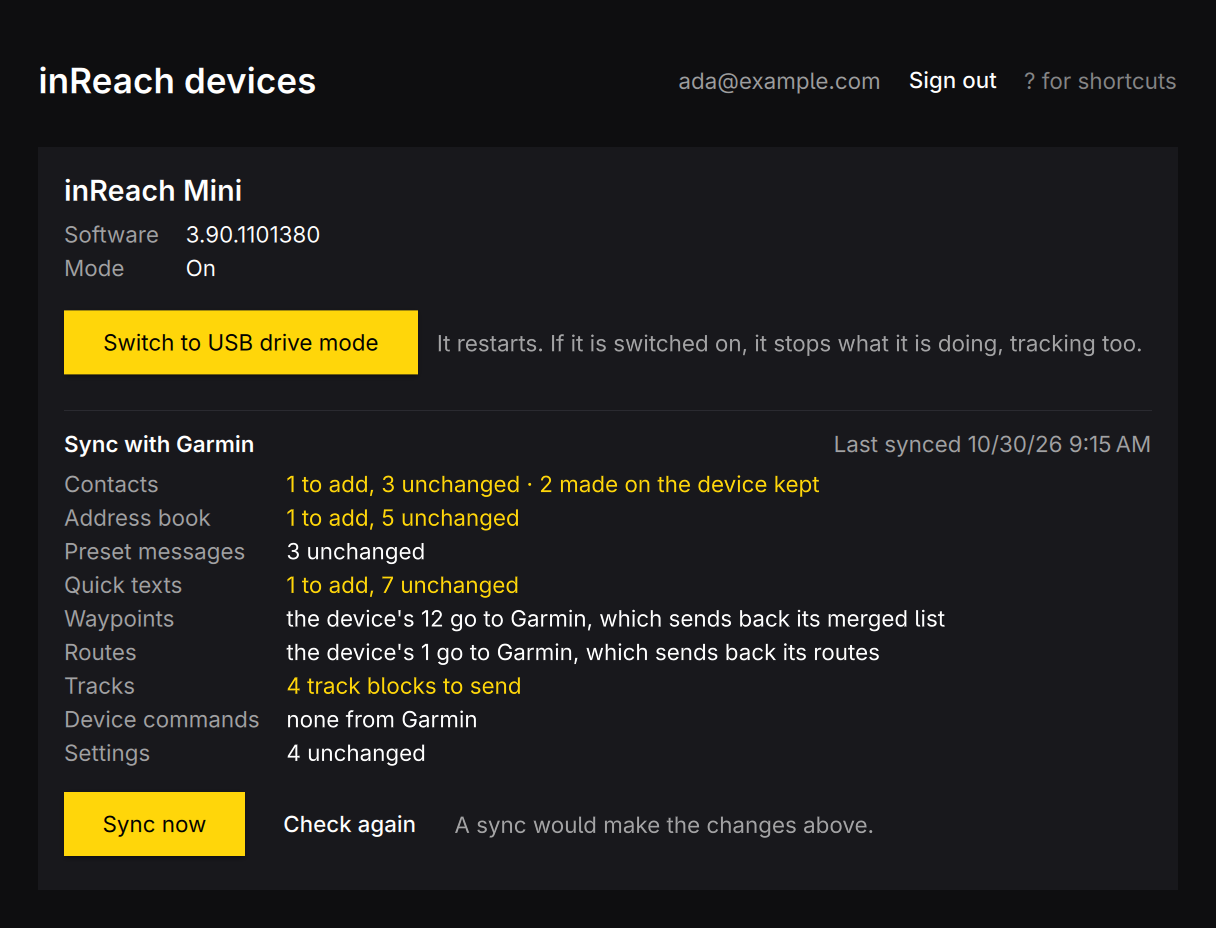
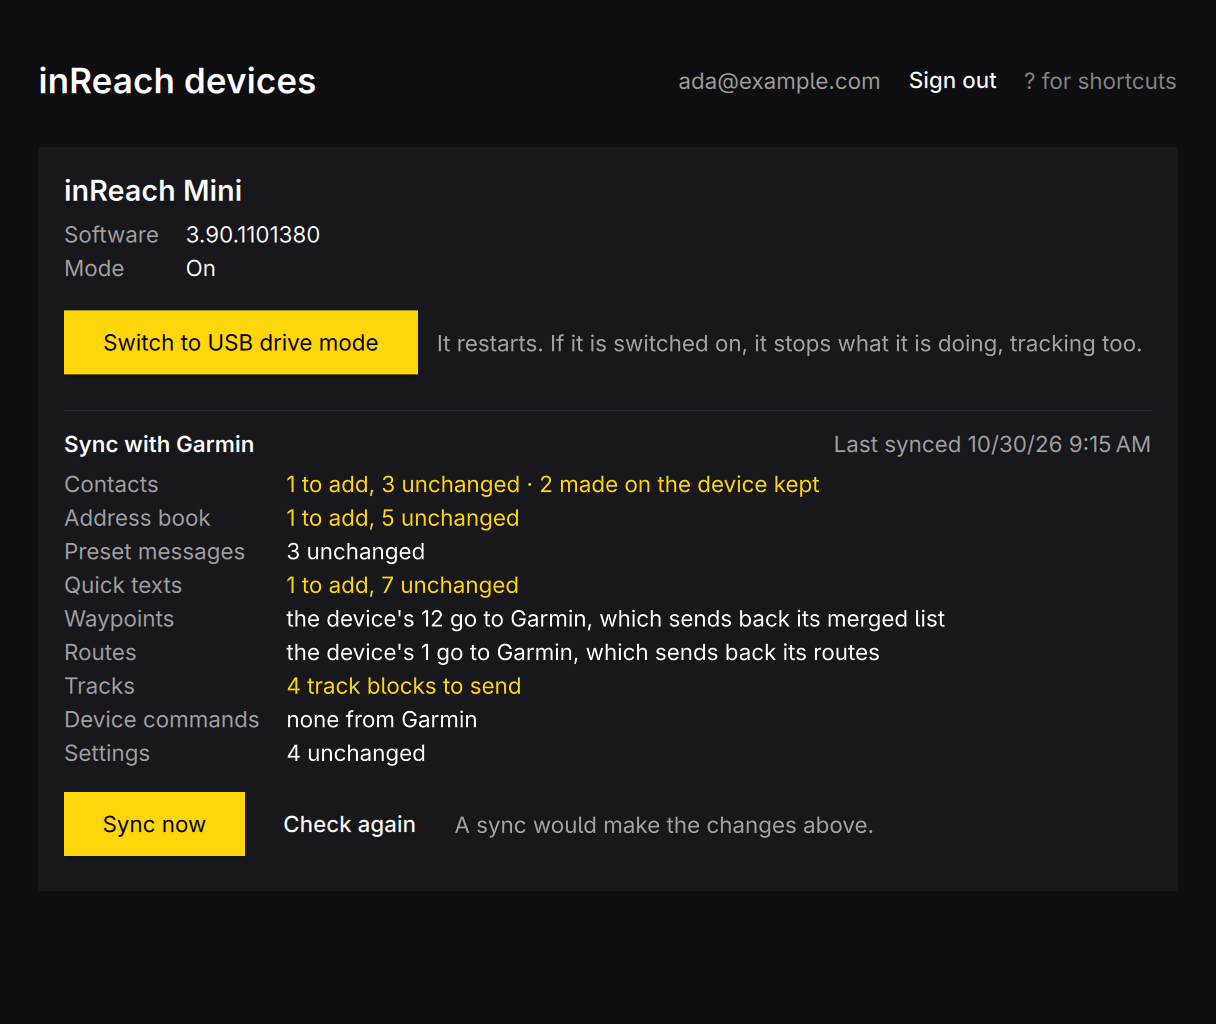
Add the screenshot demo: tools/demo and bin/screenshot
The real window with made-up state from a FakeBackend, the default accent and a language
of choice, captured on screen with grim (Qt's offscreen platform does not draw Material's
button backgrounds). A test keeps FakeBackend's properties and actions in step with
Backend's. The README screenshot is taken with it.

diff --git a/tools/demo/fakebackend.h b/tools/demo/fakebackend.h
@@ -1,0 +1,47 @@
+// The window's Backend with made-up state, for screenshots: the same
+// properties, signals and actions, no device and no network. Keep it in step
+// with src/backend.h; tests/ checks that the properties match.
+#pragma once
+#include <QJsonDocument>
+#include <QJsonObject>
+#include <QObject>
+#include <QVariantMap>
+class FakeBackend : public QObject {
+    Q_OBJECT
+    Q_PROPERTY(QVariantList devices MEMBER m_devices NOTIFY changed)
+    Q_PROPERTY(bool busy READ busy NOTIFY changed)
+    Q_PROPERTY(QString task MEMBER m_task NOTIFY changed)
+    Q_PROPERTY(QString error MEMBER m_error NOTIFY changed)
+    Q_PROPERTY(QString account MEMBER m_account NOTIFY changed)
+    Q_PROPERTY(QVariantMap preview MEMBER m_preview NOTIFY changed)
+    Q_PROPERTY(QString previewError MEMBER m_previewError NOTIFY changed)
+    Q_PROPERTY(QString syncStep MEMBER m_syncStep NOTIFY changed)
+    Q_PROPERTY(QVariantMap syncResult MEMBER m_syncResult NOTIFY changed)
+    Q_PROPERTY(QString syncError MEMBER m_syncError NOTIFY changed)
+public:
+    explicit FakeBackend(const QByteArray &json) {
+        const QVariantMap m = QJsonDocument::fromJson(json).object().toVariantMap();
+        m_devices = m.value("devices").toList();
+        m_task = m.value("task").toString();
+        m_account = m.value("account").toString();
+        m_preview = m.value("preview").toMap();
+        m_syncStep = m.value("syncStep").toString();
+        m_syncResult = m.value("syncResult").toMap();
+    }
+    bool busy() const { return !m_task.isEmpty(); }
+    Q_INVOKABLE void refresh() {}
+    Q_INVOKABLE void switchToDrive(const QString &) {}
+    Q_INVOKABLE void switchOn(const QString &) {}
+    Q_INVOKABLE void signIn(const QString &, const QString &) {}
+    Q_INVOKABLE void signOut() {}
+    Q_INVOKABLE void checkSync() {}
+    Q_INVOKABLE void sync() {}
+signals:
+    void changed();
+    void notice(const QString &text);
+    void signInFinished(bool ok, const QString &error);
+private:
+    QVariantList m_devices;
+    QString m_task, m_error, m_account, m_previewError, m_syncStep, m_syncError;
+    QVariantMap m_preview, m_syncResult;
+};

diff --git a/tools/demo/demo.cpp b/tools/demo/demo.cpp
@@ -1,0 +1,49 @@
+// nimrag-demo <state.json> [language]: the real window with made-up state,
+// the default accent and the language given, without a device or Garmin.
+#include <QFile>
+#include <QGuiApplication>
+#include <QQmlApplicationEngine>
+#include <QQmlContext>
+#include <QQuickStyle>
+#include <QTemporaryDir>
+
+#include "fakebackend.h"
+#include "theme.h"
+#include "translator.h"
+
+int main(int argc, char *argv[]) {
+    if (argc < 2) {
+        qWarning("usage: nimrag-demo <state.json> [language]");
+        return 1;
+    }
+    QGuiApplication app(argc, argv);
+    app.setDesktopFileName("nimrag-demo");
+    QQuickStyle::setStyle("Material");
+
+    // The language comes from a file of our own, so Omarchy's stays as it is.
+    QTemporaryDir dir;
+    QFile language(dir.filePath("language"));
+    if (!language.open(QIODevice::WriteOnly))
+        return 1;
+    language.write(QByteArray(argc > 2 ? argv[2] : "en") + "\n");
+    language.close();
+    Translator translator(language.fileName());
+    app.installTranslator(&translator);
+
+    // A theme directory that does not exist: the default accent and sharp corners.
+    Theme theme(dir.filePath("no-theme"));
+
+    QFile state(QString::fromLocal8Bit(argv[1]));
+    if (!state.open(QIODevice::ReadOnly)) {
+        qWarning("cannot read %s", argv[1]);
+        return 1;
+    }
+    FakeBackend backend(state.readAll());
+
+    QQmlApplicationEngine engine;
+    engine.rootContext()->setContextProperty("translator", &translator);
+    engine.rootContext()->setContextProperty("theme", &theme);
+    engine.rootContext()->setContextProperty("backend", &backend);
+    engine.load(QUrl("qrc:/Main.qml"));
+    return engine.rootObjects().isEmpty() ? 1 : app.exec();
+}

diff --git a/tests/nimrag-sync_tests.cpp b/tests/nimrag-sync_tests.cpp
@@ -8,6 +8,7 @@
 #include <QtTest>
 
 #include "backend.h"
+#include "fakebackend.h"
 #include "theme.h"
 #include "translator.h"
 
@@ -72,6 +73,32 @@ private slots:
         }
         QVERIFY2(missing.isEmpty(), qPrintable("not in sv.json: " + missing.join(" | ")));
         QVERIFY2(mismatched.isEmpty(), qPrintable("placeholders differ: " + mismatched.join(" | ")));
+    }
+
+    // The screenshot demo's FakeBackend offers the window what Backend does.
+    void demoBackendMatchesTheBackend()
+    {
+        auto members = [](const QMetaObject &meta, QMetaMethod::MethodType type) {
+            QStringList names;
+            for (int i = meta.methodOffset(); i < meta.methodCount(); ++i)
+                if (meta.method(i).methodType() == type)
+                    names << QString::fromLatin1(meta.method(i).methodSignature());
+            names.sort();
+            return names;
+        };
+        auto properties = [](const QMetaObject &meta) {
+            QStringList names;
+            for (int i = meta.propertyOffset(); i < meta.propertyCount(); ++i)
+                names << QString::fromLatin1(meta.property(i).name());
+            names.sort();
+            return names;
+        };
+        const QMetaObject &real = Backend::staticMetaObject, &fake = FakeBackend::staticMetaObject;
+        QCOMPARE(properties(fake), properties(real));
+        QCOMPARE(members(fake, QMetaMethod::Method), members(real, QMetaMethod::Method));
+        const QStringList fakeSignals = members(fake, QMetaMethod::Signal);
+        for (const char *signal : {"notice(QString)", "signInFinished(bool,QString)"})
+            QVERIFY2(fakeSignals.contains(signal), signal);
     }
 
     void backendKnowsWhenADeviceIsOn()

diff --git a/README.md b/README.md
@@ -82,7 +82,15 @@ window (`src/`, built with qmake6), linked into one binary.
 bin/build      # cargo + qmake6 + make into build/nimrag-sync
 bin/test       # the Rust tests and the Qt tests (offscreen)
 bin/install    # makepkg -fsi: the app lands in the launcher
+bin/screenshot [language] [out.png] [state.json]
+               # the window with made-up state, captured on screen
 ```
+
+`bin/screenshot` runs the real window with `tools/demo/`'s `FakeBackend` instead of the Rust core,
+the state in `tools/demo/state.json`, the default accent and the language given (`en` when none),
+floats it beside the pointer for a few seconds and saves it with `grim` (to `docs/screenshot.png`
+by default). It needs Hyprland: Qt's offscreen platform does not draw Material's button
+backgrounds. `bin/test` checks that `FakeBackend` keeps up with `Backend`.
 
 ## Protocol notes
 
